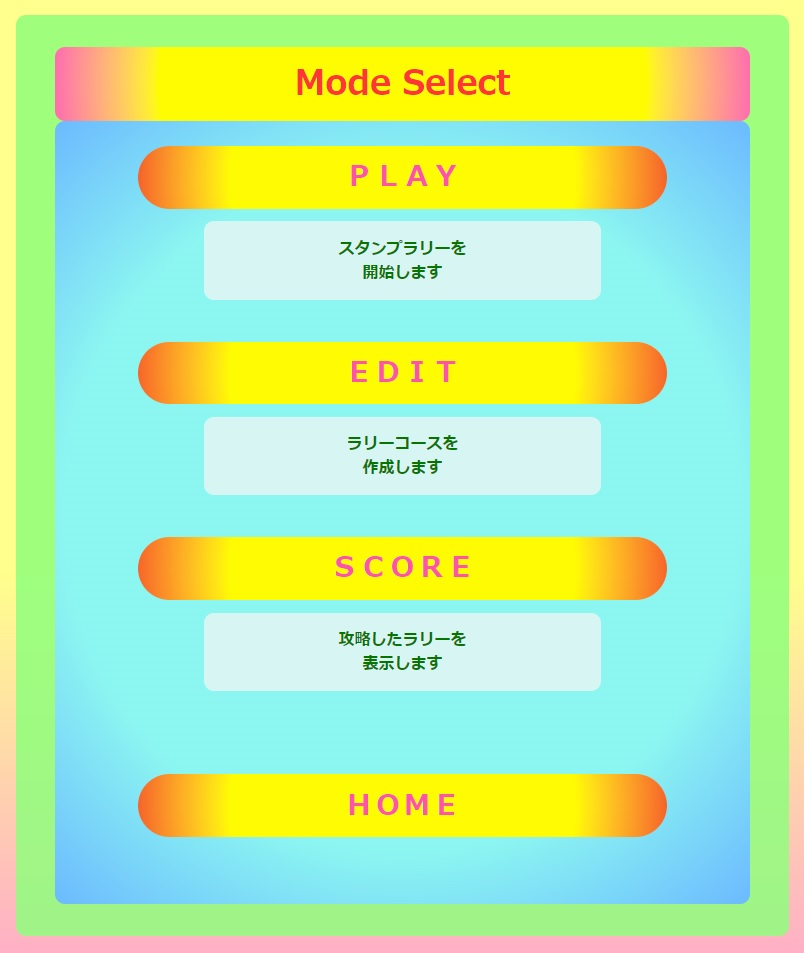
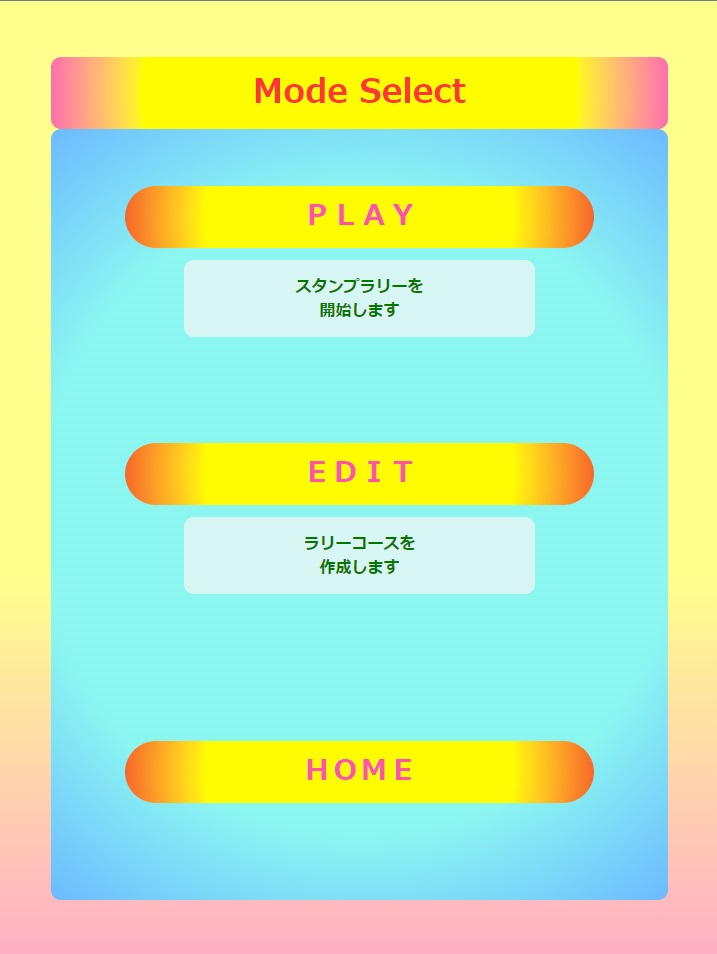
配置変更

diff --git a/laravel/resources/views/route/searchRoutes.blade.php b/laravel/resources/views/route/searchRoutes.blade.php
@@ -20,11 +20,11 @@ Route Search
             <!-- 詳細設定部分 -->
             <div class="configContainer">
                 <div class="sectorA">
-                    <div class="titleSection"><div class="title">ラリー検索</div></div>
+                    <div class="titleSection"><div class="title">ＧＡＭＥＳ</div></div>
                     <div class="configSection">
 
                         <div class="itemSection">
-                            <div class="itemSector">
+{{--                             <div class="itemSector">
                                 <div class="textSector">
                                     <div class="text">全てのラリー</div>
                                 </div>
@@ -33,10 +33,24 @@ Route Search
                                         <div id="nextButtonA" class="setButton">ＡＬＬ</div>
                                     </form>
                                 </div>
+                            </div> --}}
+
+                            <div class="itemSector">
+                                <form method="GET" id="nextActionC" action="{{ route('selectRoute') }}" enctype="multipart/form-data">
+                                    <div class="textSector">
+                                    <!-- REQUESTに keyword を入れて転送　向こうで判断して別のものを表示します -->
+                                    <div class="text">ラリー検索</div>
+                                        <input type="text" class="keyword" name="keyword" placeholder="キー検索も可">
+                                    </div>
+                                    <div class="buttonSector">
+                                        <div id="nextButtonC" class="setButton">検索</div>
+                                    </div>
+                                </form>
                             </div>
+
                             <div class="itemSector">
                                 <div class="textSector">
-                                    <div class="text">現在参加中</div>
+                                    <div class="text">現在進行中</div>
                                 </div>
                                 <div class="buttonSector">
                                     <form method="GET" id="nextActionB" action="{{ route('progressRoutes') }}" enctype="multipart/form-data">
@@ -44,18 +58,19 @@ Route Search
                                     </form>
                                 </div>
                             </div>
+
                             <div class="itemSector">
-                                <form method="GET" id="nextActionC" action="{{ route('selectRoute') }}" enctype="multipart/form-data">
-                                    <div class="textSector">
-                                    <!-- REQUESTに keyword を入れて転送　向こうで判断して別のものを表示します -->
-                                    <div class="text">キー検索</div>
-                                        <input type="text" class="keyword" name="keyword" placeholder="キーワード">
-                                    </div>
-                                    <div class="buttonSector">
-                                        <div id="nextButtonC" class="setButton">検索</div>
-                                    </div>
-                                </form>
+                                <div class="textSector">
+                                    <div class="text">攻略したラリーを<br>表示します</div>
+                                </div>
+                                <div class="buttonSector">
+                                    <form method="GET" id="nextActionE" action="{{ route('selectScore') }}">
+                                        <div id="nextButtonE" class="setButton">SCORE</div>
+                                    </form>
+                                </div>
                             </div>
+
+
                             <div class="itemSector">
 {{--                                 <div class="textSector">
                                     <div class="text">モード選択へ</div>

diff --git a/laravel/app/Http/Controllers/CreateRallyController.php b/laravel/app/Http/Controllers/CreateRallyController.php
@@ -3,8 +3,8 @@
 namespace App\Http\Controllers;
 
 use Illuminate\Http\Request;
-use App\Http\Requests\ROUTE_SET;        //ルート名・紹介文・画像は可能な形式のみ
-use App\Http\Requests\POSITION_SET;     //画像は可能な形式のみ
+use App\Http\Requests\ROUTE_SET;        //validate ルート名・紹介文・画像は可能な形式のみ
+use App\Http\Requests\POSITION_SET;     //vlaidate 画像は可能な形式のみ
 //use Facade\FlareClient\Http\Client;
 use Storage;
 //guzzle ｗｅｂＡＰＩを叩く
@@ -15,9 +15,6 @@ class CreateRallyController extends Controller
 {
     //ログイン等認証対象　コンストラクタ
     public function __construct(){$this->middleware('auth');}
-
-
-
 
 
     // ルート作成画面画面表示
@@ -46,6 +43,7 @@ class CreateRallyController extends Controller
                         ->with('table',json_decode($response->getBody()->getContents())->table)
                         ->with('point_no',$point_no);
     }
+
     // ゴール設定画面
     public function settingGoal($route_code,$route_name){
         return view('create.settingGoal')
@@ -61,7 +59,6 @@ class CreateRallyController extends Controller
                         ->with('longitude',$longitude)
                         ->with('point_no',$point_no+1);//ポイントNOを＋１する
     }
-
 
 
     // ルート作成画面からポイント選択画面へ　※テーブルにスタートデータを登録する
@@ -83,14 +80,11 @@ class CreateRallyController extends Controller
             //画像がないときは　NULL　をいれる
             $pictPath = NULL;
         }
-
         //  ルート登録・スタート地点の保存
-
         //ルートコード初期化
         $route_code="";
         //外部APIより返ってきたレスポンス保存用
         $response=array();
-
         //ルートの保存
         $dataUrl = config('services.web.stamprally_API').'/route/create';
         $param=array(
@@ -111,7 +105,6 @@ class CreateRallyController extends Controller
                                                 'latitude'=>-1,'longitude'=>-1,'table'=>-1,
                                                 'point_no'=>1]);
     }
-
 
 
     // ポイント選択画面より ポイント登録処理 selectPoint

diff --git a/laravel/resources/views/route/selectMode.blade.php b/laravel/resources/views/route/selectMode.blade.php
@@ -43,7 +43,7 @@ Game or Create
                                     <div class="text">ラリーコースを<br>作成します</div>
                                 </div>
                             </div>
-                            <div class="itemSector">
+{{--                             <div class="itemSector">
                                 <div class="buttonSector">
                                     <form method="GET" id="nextActionC" action="{{ route('selectScore') }}">
                                         <div id="nextButtonC" class="setButton">ＳＣＯＲＥ</div>
@@ -52,7 +52,7 @@ Game or Create
                                 <div class="textSector">
                                     <div class="text">攻略したラリーを<br>表示します</div>
                                 </div>
-                            </div>
+                            </div> --}}
                             <div class="itemSector">
                                 <div class="buttonSector">
                                     <form method="GET" id="nextActionD" action="/">

diff --git a/laravel/resources/views/LP.blade.php b/laravel/resources/views/LP.blade.php
@@ -56,12 +56,10 @@ StamP-RALLY LP
                             『 P l a y 』<br>
                             　自分や人が作ったコースで<br>
                             　遊べます。<br>
+                            　スコアも見れます。<br>
                             『 E D I T 』<br>
                             　新しくコースを作成することが<br>
                             　できます。<br>
-                            『 S C O R E 』<br>
-                            　攻略したラリーを<br>
-                            　確認することができます。<br>
                         </div>
                     </div>
                     <div class="d-content"><img class='pict' src="{{ asset('/images/2-select.jpg') }}"></div>

diff --git a/laravel/resources/views/route/selectScore.blade.php b/laravel/resources/views/route/selectScore.blade.php
@@ -45,7 +45,7 @@ Score選択
                             </div>
                             <div class="itemSector">
                                 <div class="buttonSector">
-                                    <form method="GET" id="nextActionD" action="{{ route('selectMode') }}">
+                                    <form method="GET" id="nextActionD" action="{{ route('searchRoutes') }}">
                                         <div id="nextButtonD" class="setButton">ＢＡＣＫ</div>
                                     </form>
                                 </div>

diff --git a/laravel/resources/views/route/selectCreate.blade.php b/laravel/resources/views/route/selectCreate.blade.php
@@ -20,7 +20,7 @@ RallyEdit
             <!-- 詳細設定部分 -->
             <div class="configContainer">
                 <div class="sectorA">
-                    <div class="titleSection"><div class="title">ＥＤＩＴ</div></div>
+                    <div class="titleSection"><div class="title">EDITOR</div></div>
                     <div class="configSection">
                         <div class="itemSection">
                             <div class="itemSector">
